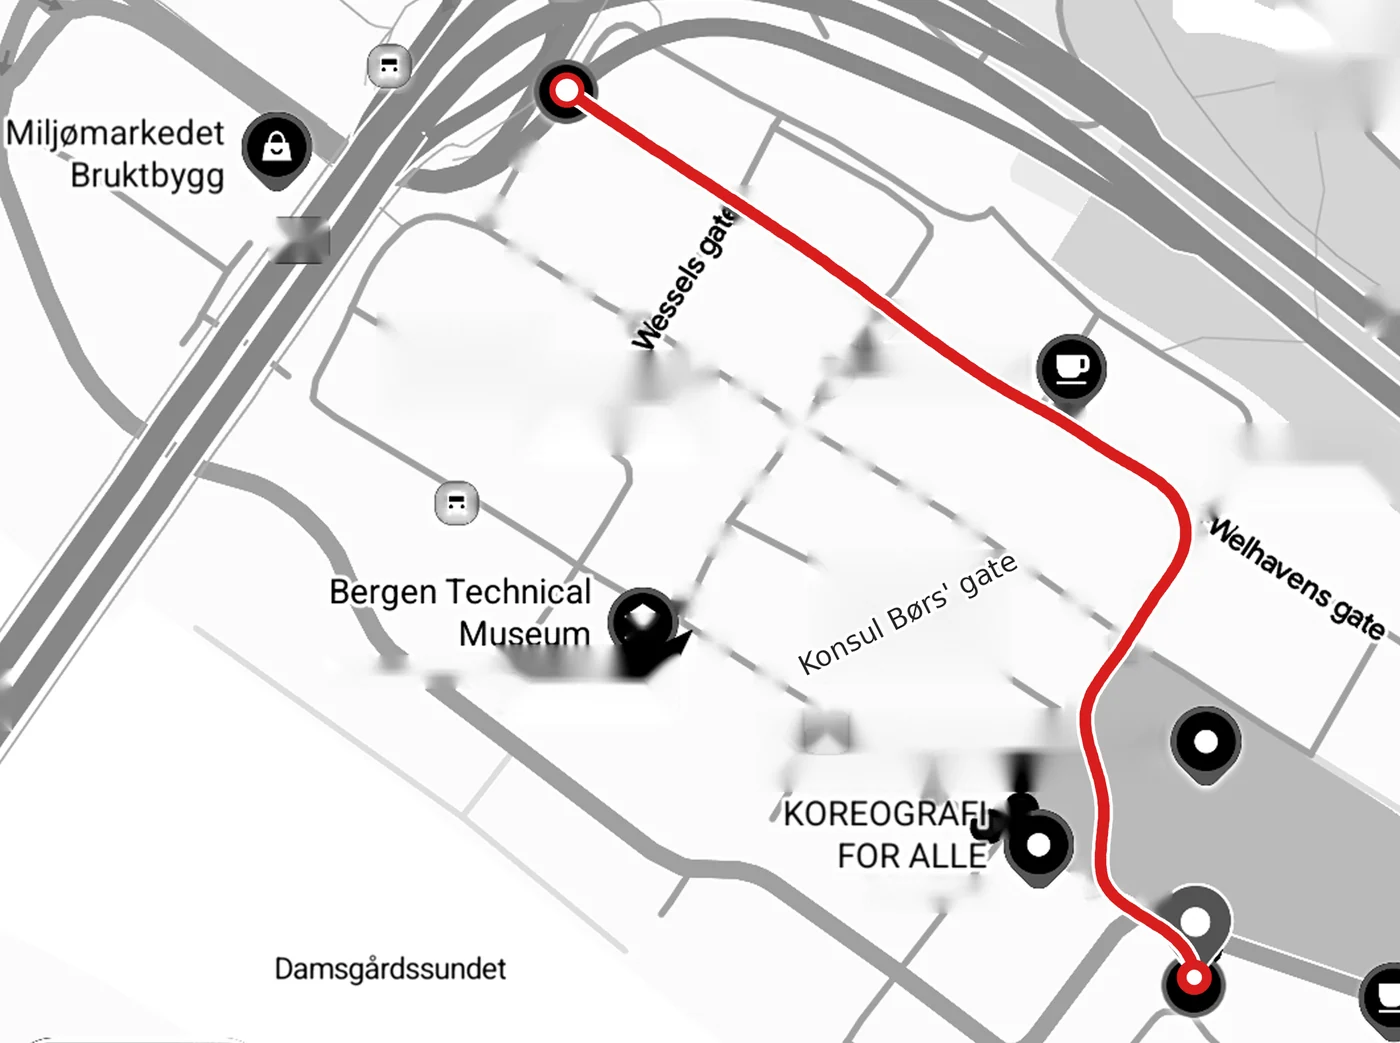
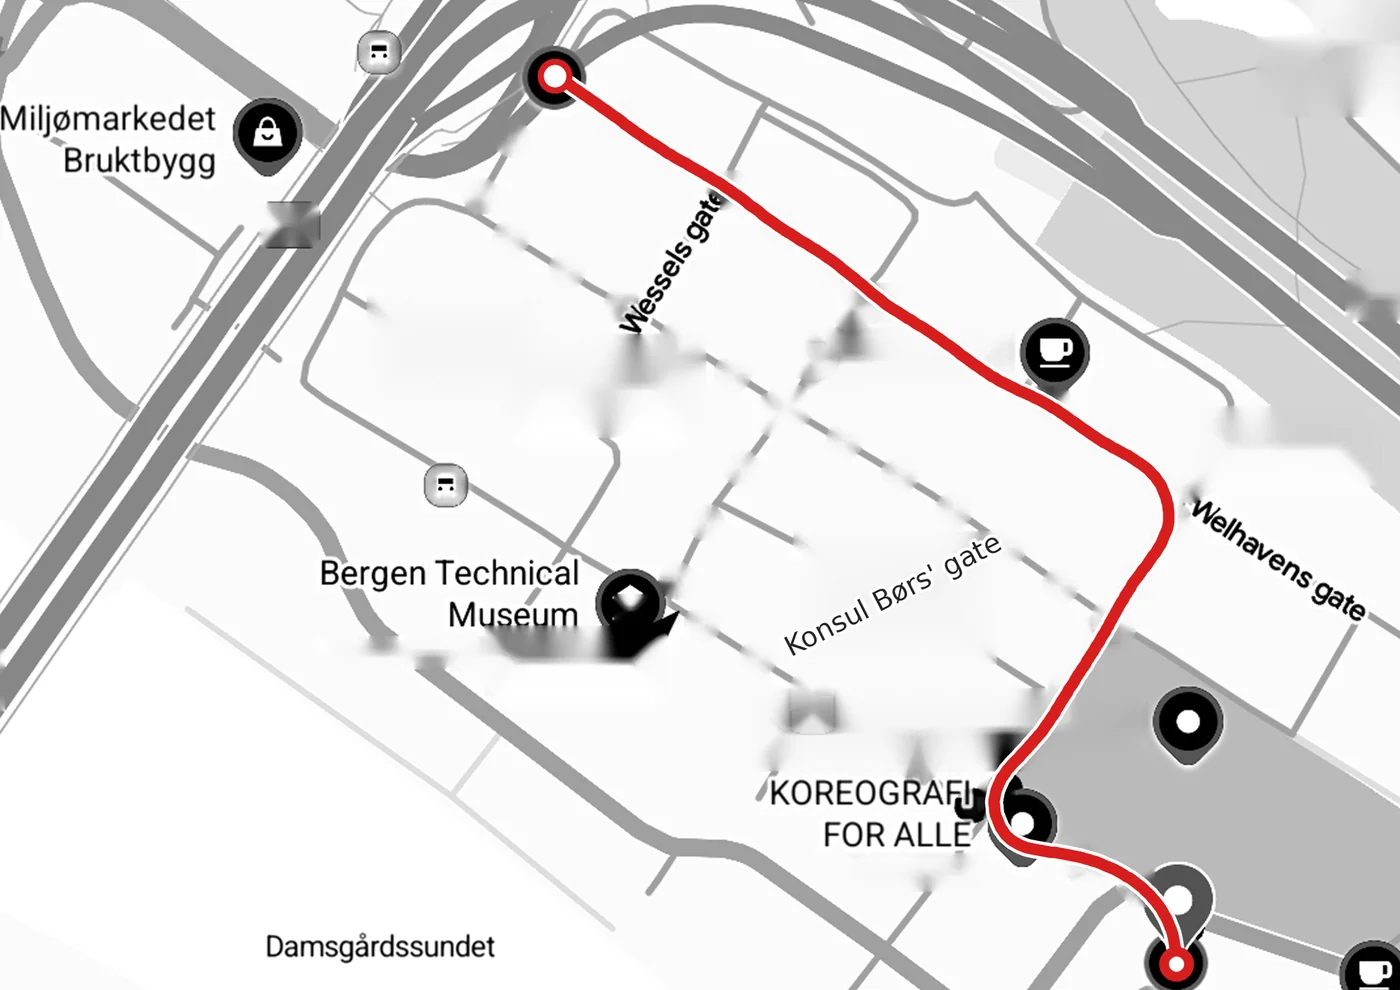
Update: equal maps, fixed route, swapped photos

diff --git a/src/app/components/StudioInfo.tsx b/src/app/components/StudioInfo.tsx
@@ -26,8 +26,8 @@ const T = {
     mapCaps: { florida: "Kart: gangvei fra Florida (ca. 7 min)", moehlenpris: "Kart: gangvei fra Møhlenpris (ca. 7 min)" },
     tabs: ["Fra Florida", "Fra Møhlenpris"],
     routeCaps: {
-      florida: ["Gangveien opp mot Vitalitetsenteret", "Hjørnet ved Vitalitetsenteret"],
-      moehlenpris: ["Fra Møhlenpris: krysset og gangveien opp til inngangen"],
+      florida: ["Gangveien opp mot Vitalitetsenteret", "Krysset og gangveien opp til inngangen"],
+      moehlenpris: ["Hjørnet ved Vitalitetsenteret"],
     },
     insideTitle: "Inne i bygget",
     steps: ["Inngang A – Vitalitetsenteret", "Gå gjennom gangen", "Døren til salen", "Salen"],
@@ -53,8 +53,8 @@ const T = {
     mapCaps: { florida: "Map: walking route from Florida (approx. 7 min)", moehlenpris: "Map: walking route from Møhlenpris (approx. 7 min)" },
     tabs: ["From Florida", "From Møhlenpris"],
     routeCaps: {
-      florida: ["The footpath up towards Vitalitetsenteret", "The corner by Vitalitetsenteret"],
-      moehlenpris: ["From Møhlenpris: the crossing and the footpath up to the entrance"],
+      florida: ["The footpath up towards Vitalitetsenteret", "The crossing and the footpath up to the entrance"],
+      moehlenpris: ["The corner by Vitalitetsenteret"],
     },
     insideTitle: "Inside the building",
     steps: ["Entrance A – Vitalitetsenteret", "Walk through the corridor", "The door to the hall", "The hall"],
@@ -80,8 +80,8 @@ const T = {
     mapCaps: { florida: "Мапа: пішки від Florida (близько 7 хв)", moehlenpris: "Мапа: пішки від Møhlenpris (близько 7 хв)" },
     tabs: ["Від Florida", "Від Møhlenpris"],
     routeCaps: {
-      florida: ["Пішохідна доріжка вгору до Vitalitetsenteret", "Ріг біля Vitalitetsenteret"],
-      moehlenpris: ["Від Møhlenpris: перехрестя та доріжка вгору до входу"],
+      florida: ["Пішохідна доріжка вгору до Vitalitetsenteret", "Перехрестя та доріжка вгору до входу"],
+      moehlenpris: ["Ріг біля Vitalitetsenteret"],
     },
     insideTitle: "Всередині будівлі",
     steps: ["Вхід A – Vitalitetsenteret", "Пройдіть коридором", "Двері до залу", "Зал"],
@@ -97,8 +97,8 @@ const T = {
 const IMG = (n: string) => `/find/${n}.webp`;
 // Які фото до якого маршруту — міняється тут (назви файлів у public/find/)
 const ROUTES = {
-  florida: ["approach-street", "approach-corner"],
-  moehlenpris: ["approach-moehlenpris"],
+  florida: ["approach-street", "approach-moehlenpris"],
+  moehlenpris: ["approach-corner"],
 } as const;
 const MAPS = { florida: "map-florida", moehlenpris: "map-moehlenpris" } as const;
 const INSIDE = ["entrance", "hall-corridor", "door", "hall"] as const;
